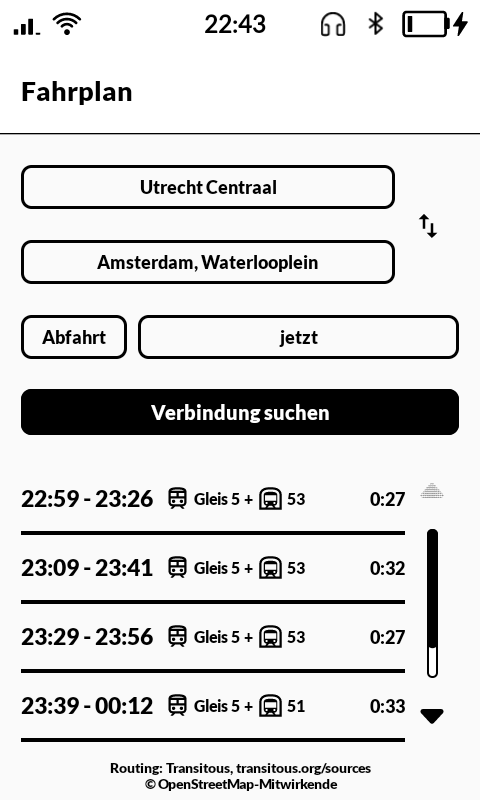
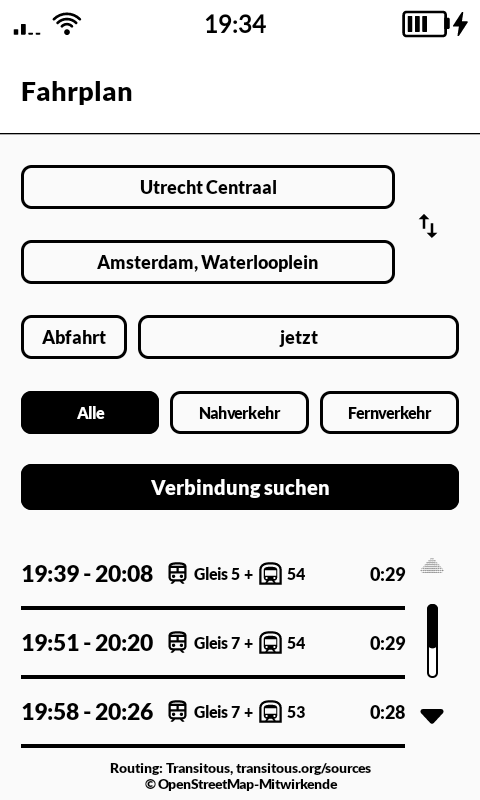
Docs: the local/long-distance filter and a long-distance screenshot

diff --git a/README.md b/README.md
@@ -2,17 +2,18 @@
 
 Door-to-door public transit planner for the Mudita Kompakt (e-ink), built with the Mudita Mindful Design (MMD) framework. Search stops or addresses, plan by departure or arrival time, and open a trip for a calm leg-by-leg overview with platform info. Tapping a walk leg opens a black-and-white map with the route, your GPS position, and step-by-step directions. No API key or account required. The app is available in English and German.
 
+The search can be narrowed to **local transport** (regional and suburban trains, subway, tram, bus, ferry) or to **long-distance** (high-speed, intercity and night trains, long-distance coaches, flights). This uses MOTIS's `transitModes` filter, so it changes what Transitous plans, not just what is shown afterwards; the choice is remembered on the phone.
+
 *Norikae* is 乗り換え — the change from one line to the next, which is what a journey through a transit network is made of.
 
 A fork of [MonoTransit](https://github.com/berendsliedrecht/MonoTransit) by Berend Sliedrecht, renamed, given its own icon, and translated into German. The routing, the screens and the map are his work; this repository keeps the same MIT licence and credits below.
 
 Routing and geocoding are provided by [Transitous](https://transitous.org), a free, community-run service powered by [MOTIS](https://github.com/motis-project/motis). The walk map is rendered with [MapLibre](https://maplibre.org) from [OpenFreeMap](https://openfreemap.org) tiles (OpenStreetMap data); tile requests go to tiles.openfreemap.org. Your GPS position never leaves the device.
 
-<p align="center">
-  <img src="docs/planner.png" width="30%" alt="Planner with results list">
-  <img src="docs/trip.png" width="30%" alt="Trip detail with platforms">
-  <img src="docs/picker.png" width="30%" alt="Stop and address search">
-</p>
+| | |
+|---|---|
+| ![The planner, with All / Local / Long-distance](docs/planner.png) | ![Long-distance only: IC and ICE connections](docs/filter.png) |
+| ![A trip, leg by leg with platforms](docs/trip.png) | ![Stop and address search](docs/picker.png) |
 
 ## Install
 
@@ -36,7 +37,7 @@ The release APK is signed with the maintainer's own key, so it can be installed 
 ## Structure
 
 - `api/TransitousApi.kt`: Transitous (MOTIS) client: geocoding of stops/addresses and door-to-door planning
-- `TransitViewModel.kt`: app state, planning calls, persisted favorites and recent places
+- `TransitViewModel.kt`: app state, planning calls, persisted favorites, recent places and the local/long-distance filter
 - `ui/PlannerScreen.kt`: from/to/departure-time form and the compact results list
 - `ui/Labels.kt`: localized line names and day labels built from the string resources
 - `ui/TripDetailScreen.kt`: leg-by-leg trip overview with track chips
